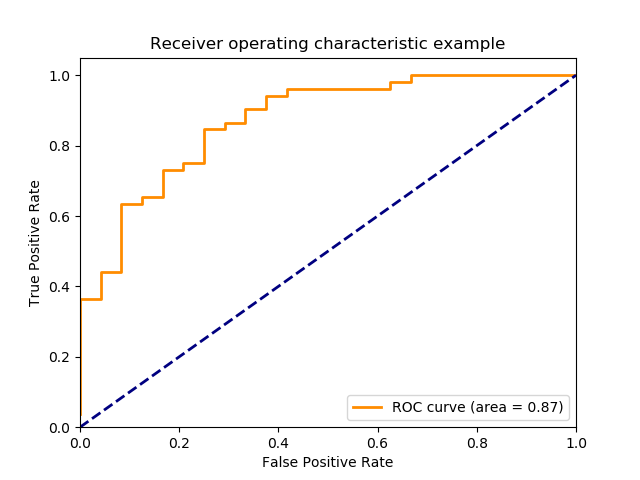
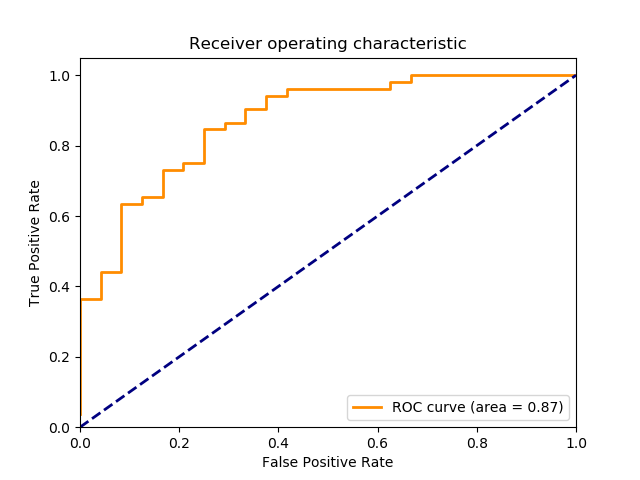
new graphics

Changed region(s): [[0.2188, 0.0625, 0.7812, 0.125]]

diff --git a/forest_graphic_generator.py b/forest_graphic_generator.py
@@ -35,17 +35,46 @@ if __name__ == "__main__":
     for i in range(len(dat_tot)):
         if dat_tot[i][0] != 1.0:
             dat_tot[i][0] = 0.0
-    y=[]; X= []
-    for row in range(2,len(dat_tot)-1,2):
-            y.append(dat_tot[row][0])
-            y.append(dat_tot[row+1][0])
-            X.append(dat_tot[row][1:])
-            X.append(dat_tot[row+1][1:])
-    clf = RandomForestClassifier(n_estimators = 1000)
-    clf.fit(X,y)
-    d_tree = clf.estimators_[0]
-    dot_data = tree.export_graphviz(d_tree, out_file='tree.dot', 
-                         class_names=['malignant', 'benign'],  
-                         filled=True, rounded=True)
-    graph = graphviz.Source(dot_data) 
-    graph
+    full_list = []
+    for i in range(0,len(dat_tot)-1,2):
+        print('fold: {}'.format(i))
+        y=[]; X= []
+        for row in range(0,len(dat_tot)-1,2):
+            if row != i:
+                y.append(dat_tot[row][0])
+                y.append(dat_tot[row+1][0])
+                X.append(dat_tot[row][1:])
+                X.append(dat_tot[row+1][1:])
+
+        clf = RandomForestClassifier(warm_start=True, oob_score=True, random_state=123)
+
+        '''
+        d_tree = clf.estimators_[0]
+        dot_data = tree.export_graphviz(d_tree, out_file='tree.dot', 
+                             class_names=['malignant', 'benign'],  
+                             filled=True, rounded=True)
+        graph = graphviz.Source(dot_data) 
+        '''
+
+        error_rate = []
+        min_estimators= 20; max_estimators = 1100
+        for i in range(min_estimators, max_estimators + 1,10):
+            clf.set_params(n_estimators=i)
+            clf.fit(X, y)
+            # Record the OOB error for each `n_estimators=i` setting.
+            oob_error = 1 - clf.oob_score_
+            error_rate.append(oob_error)
+        full_list.append(error_rate)
+    
+    full_list = np.array(full_list)
+    
+    xs = list(range(20,1101,10))
+    ys= []
+    for column in full_list.T:
+        ys.append(np.average(column))
+    plt.plot(xs, ys)
+    
+    plt.xlim(min_estimators, max_estimators)
+    plt.xlabel("n_estimators")
+    plt.ylabel("OOB error rate")
+    plt.show()

diff --git a/random_forest.py b/random_forest.py
@@ -99,7 +99,7 @@ Gastrointestinal Lesion Classifier (by Willie Wu and Linus Chen): Random Forest
         plt.ylim([0.0, 1.05])
         plt.xlabel('False Positive Rate')
         plt.ylabel('True Positive Rate')
-        plt.title('Receiver operating characteristic example')
+        plt.title('Receiver operating characteristic')
         plt.legend(loc="lower right")
         plt.savefig('roc_curve_random_forest.png')
         

diff --git a/helpers.py b/helpers.py
@@ -43,7 +43,7 @@ def predict_with_file(filename, dat_tot, start_time, mode, folds):
             print ('Approximately {:.2} minutes remaining'.format(remaining_time))
     time_passed = (time.clock()-start_time)/60
     print('Done in {:.3} minutes'.format(time_passed))
-    return predictions, answers
+    return predictions, answers, stats
 
 def split(row_indcs, folds):
     k, m = divmod(len(row_indcs), folds)
